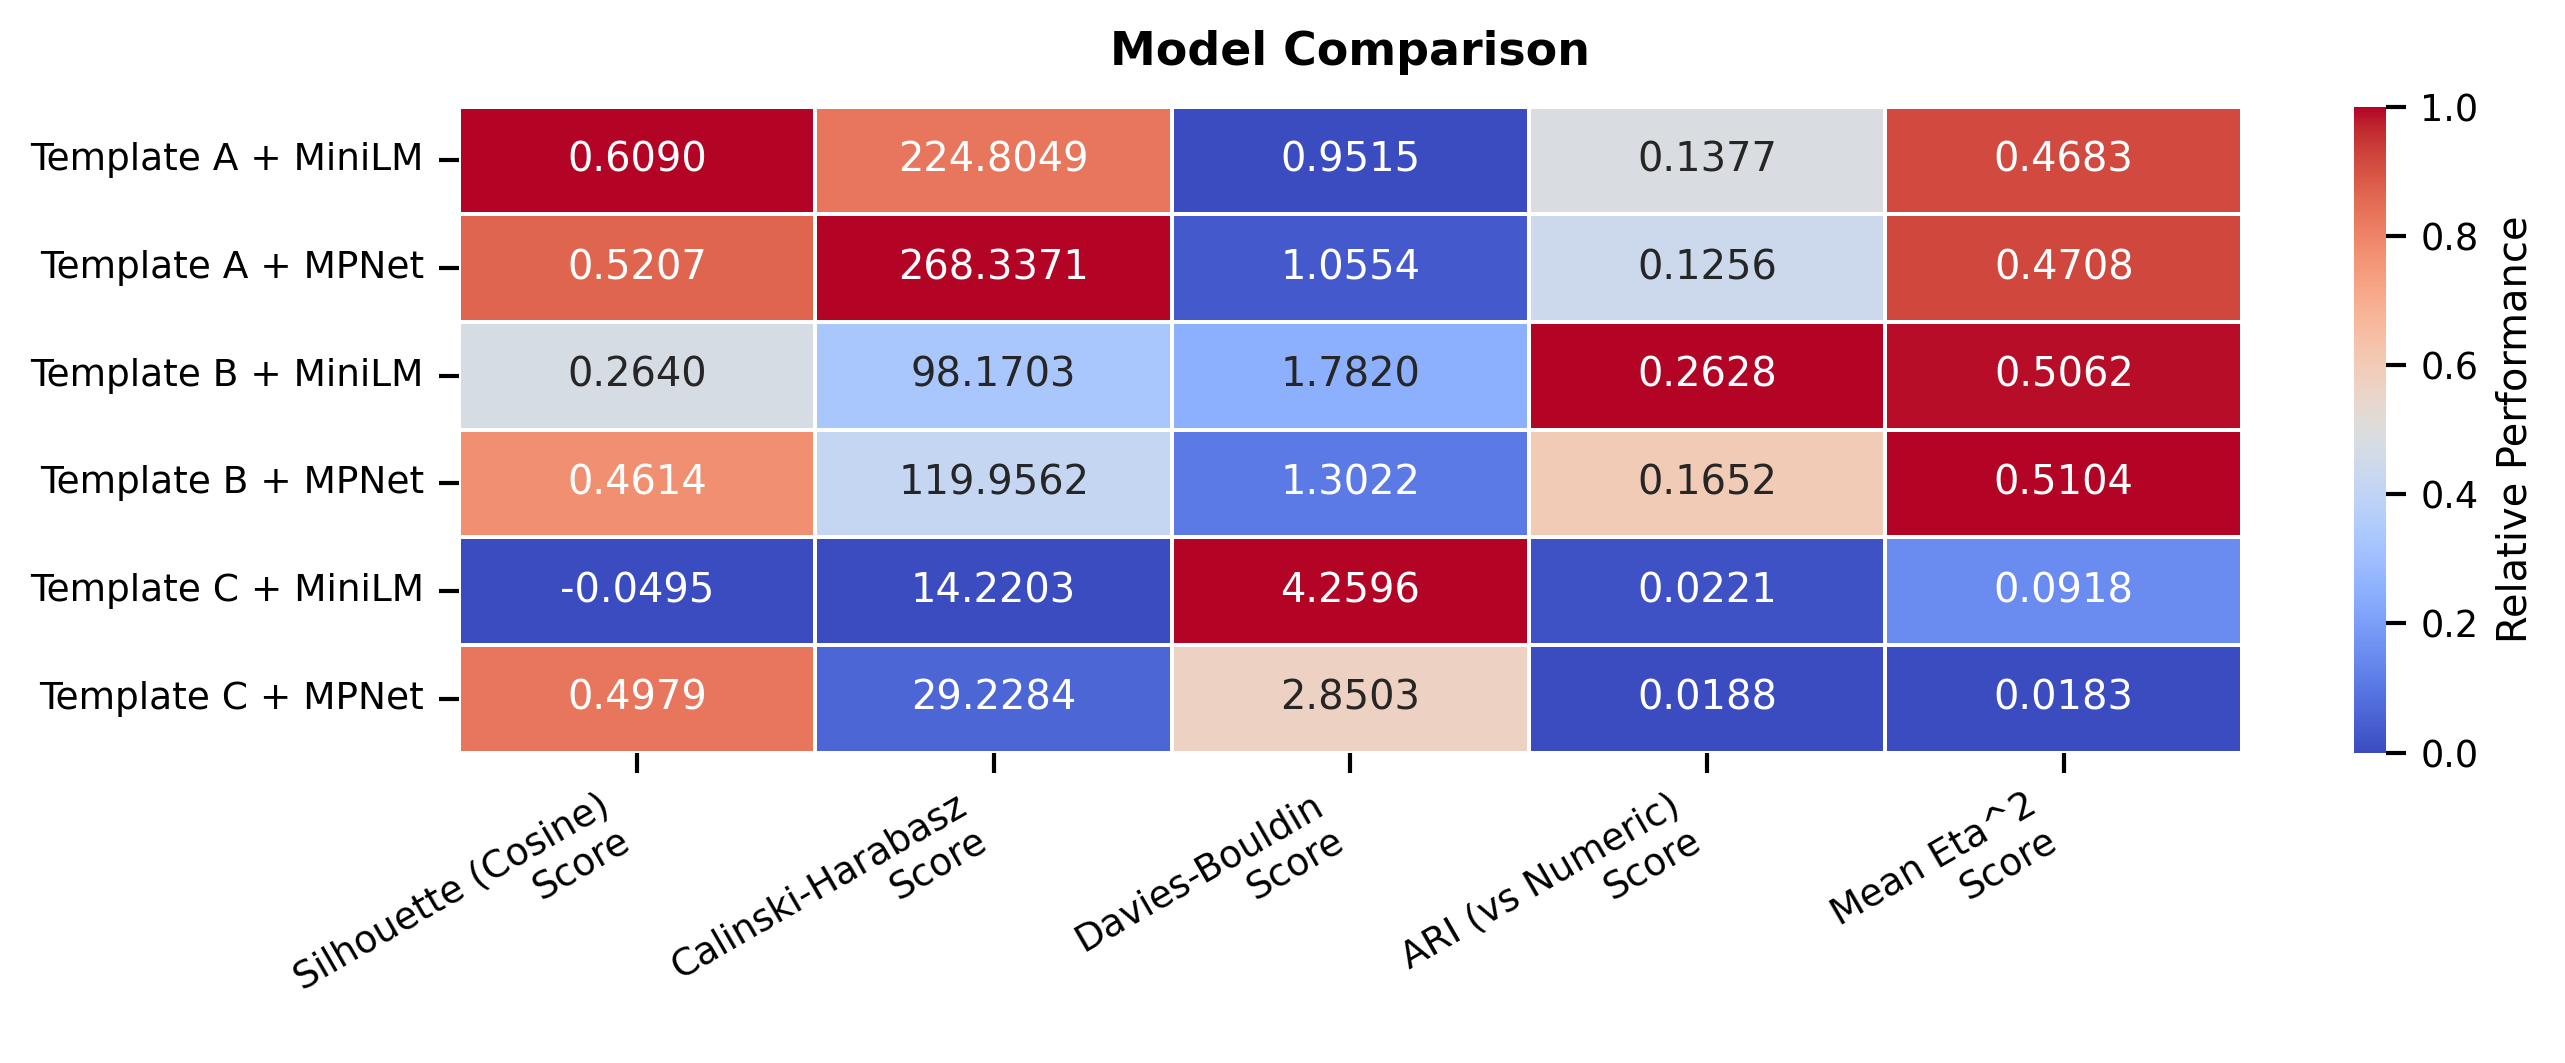
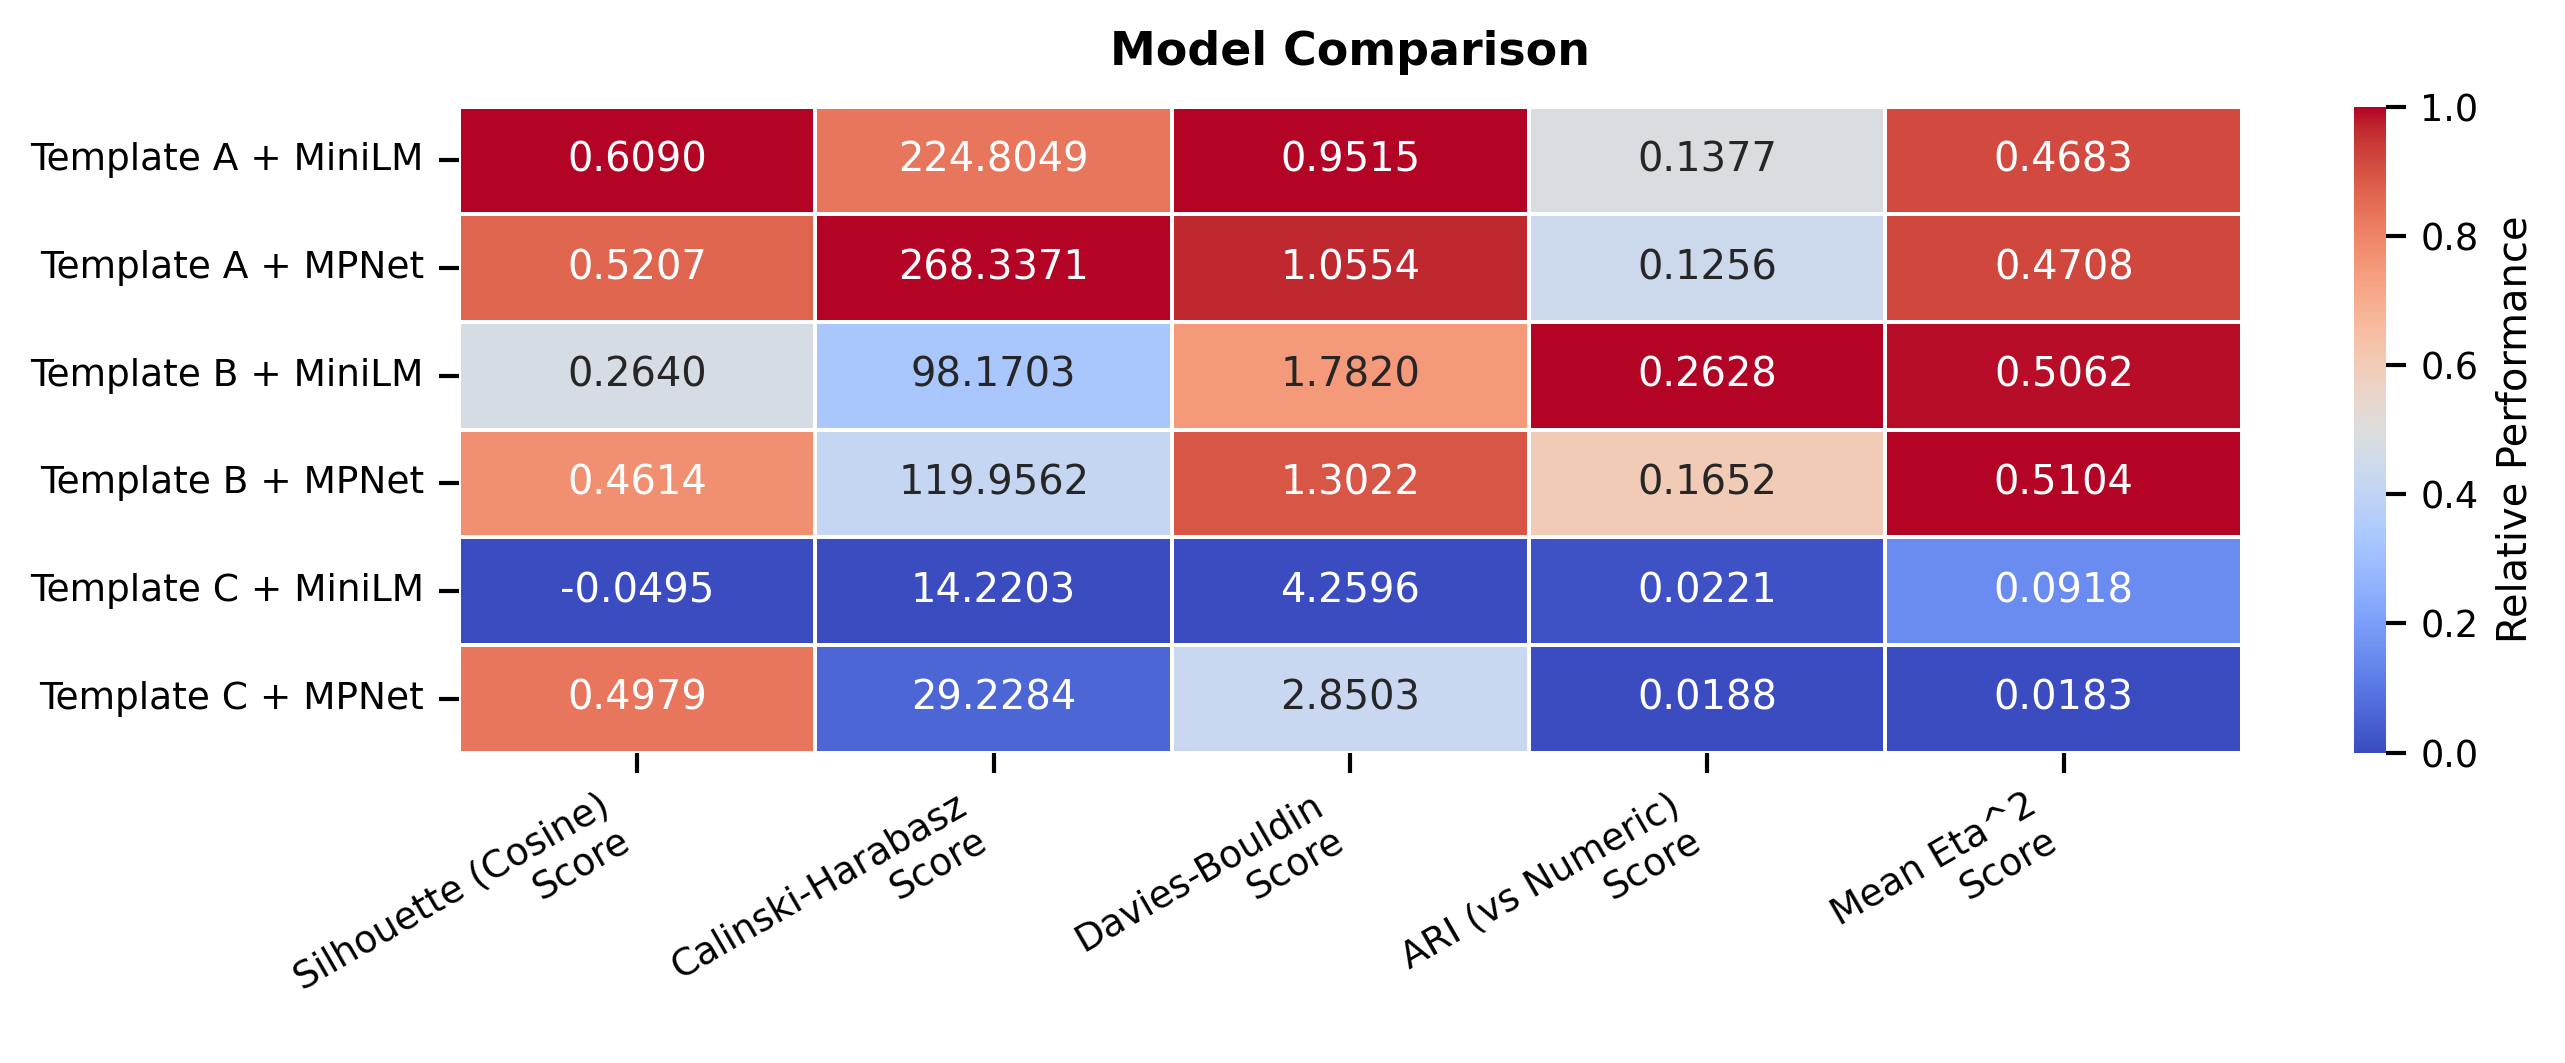
added changes

Changed region(s): [[0.4366, 0.0931, 0.5926, 0.714]]

diff --git a/narrative_embedding_clustering/final result/plot_final_table_heatmap.py b/narrative_embedding_clustering/final result/plot_final_table_heatmap.py
@@ -5,7 +5,7 @@ from pathlib import Path
 import numpy as np
 
 # Configuration
-INPUT_FILE = Path("figures/final_model_comparison.csv")
+INPUT_FILE = Path("narrative_embedding_clustering/final result/final_model_comparison.csv")
 OUTPUT_FILE = Path("figures/final_model_comparison_heatmap.png")
 
 def normalize_column(series, invert=False):
@@ -64,7 +64,7 @@ def main():
     
     # Apply normalization logic
     for col in metrics:
-        invert = (col == 'Davies-Bouldin')
+        invert = ('Davies-Bouldin' in col)
         color_df[col] = normalize_column(annot_df[col], invert=invert)
 
     # Plotting - Compact Size for Paper (e.g., 1 column width)
